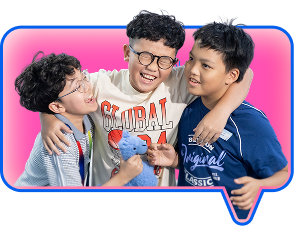
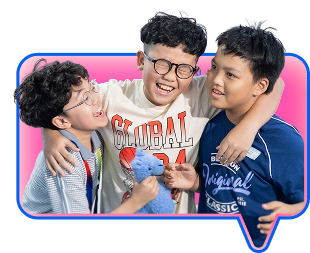
Fix: Make blue card container border hug the speech bubble image asset tightly with zero padding gaps

diff --git a/css/section4.css b/css/section4.css
@@ -170,7 +170,7 @@ body {
 .stat-card {
     background-color: #0052FF;
     border-radius: 22px;
-    overflow: visible;
+    overflow: hidden !important;
     display: flex;
     flex-direction: column;
     justify-content: space-between;
@@ -192,24 +192,28 @@ body {
 
 .card-image-wrapper {
     width: 100%;
-    padding: 0 4px;
-    margin: 0;
+    padding: 0 !important;
+    margin: 0 !important;
     display: block;
     position: relative;
     z-index: 1;
-    overflow: visible;
+    overflow: hidden !important;
+    border-top-left-radius: 22px !important;
+    border-top-right-radius: 22px !important;
     box-sizing: border-box;
 }
 
 .card-bubble-img {
     position: relative;
-    top: -10%;
-    width: 100%;
+    top: 0 !important;
+    width: 100% !important;
     height: auto;
     display: block;
-    object-fit: contain;
+    object-fit: cover !important;
+    margin: 0 !important;
+    transform: scale(1.02) !important;
+    transform-origin: top center !important;
     transition: transform 0.3s ease, filter 0.3s ease;
-    margin-top: 0;
 }
 
 /* Shared Original Sample Image across all 4 Stat Cards (No color filters) */
